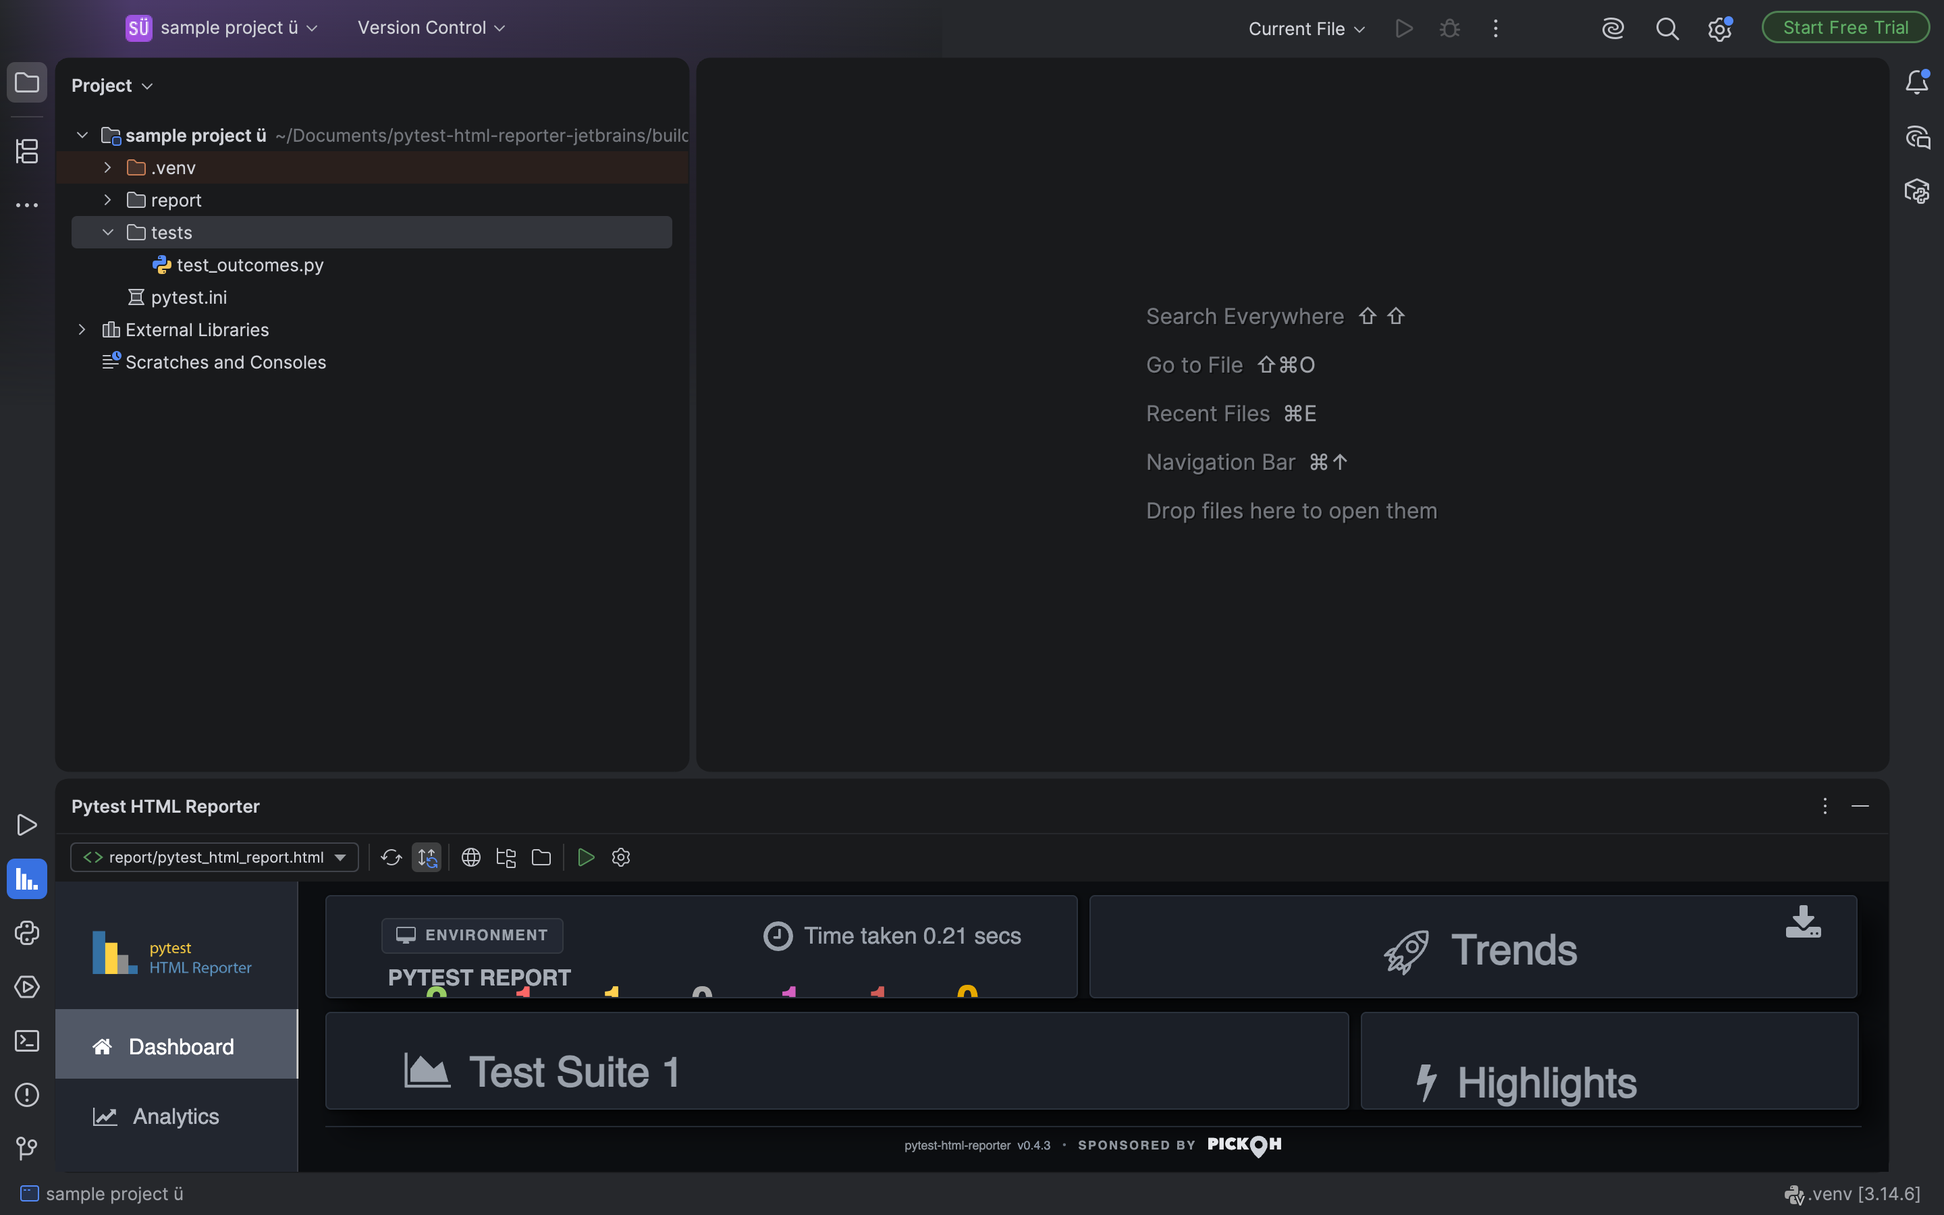
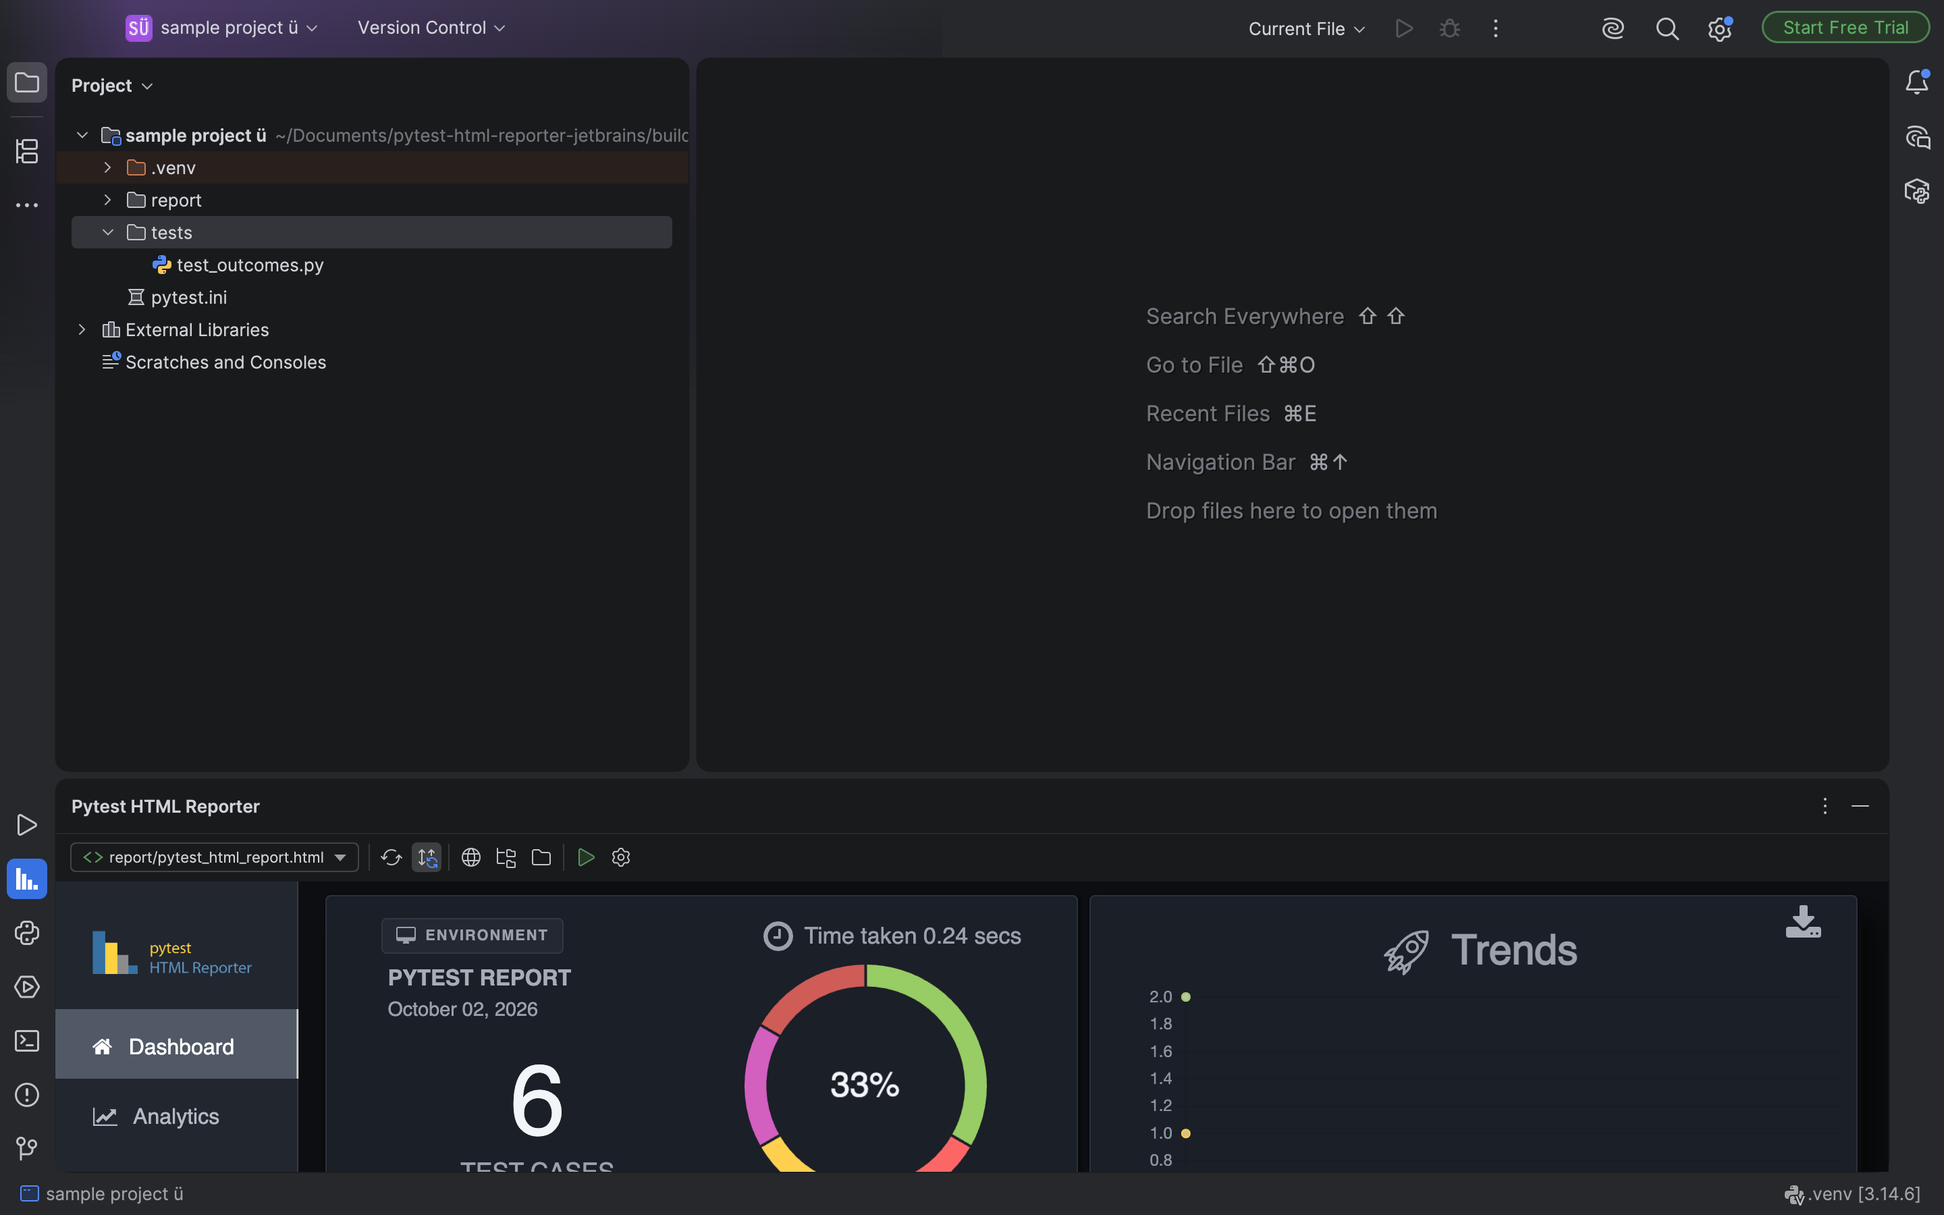
test

Changed region(s): [[0.1562, 0.7778, 0.9688, 0.9644]]

diff --git a/src/test/kotlin/io/github/prashanthsams/pytesthtmlreporter/platform/JcefReportRenderingTest.kt b/src/test/kotlin/io/github/prashanthsams/pytesthtmlreporter/platform/JcefReportRenderingTest.kt
@@ -17,12 +17,16 @@ import java.util.concurrent.atomic.AtomicInteger
 /**
  * Loads a report generated by pytest-html-reporter 0.4.3 into the production [JcefReportBrowser] (off-screen, so it
  * runs headless) and checks what the page itself can see: its scripts ran, relative screenshot files resolve from
- * disk with no server, files outside the report folder are refused, and a reload keeps the current report page.
+ * disk with no server, files outside the report folder are refused, a reload keeps the current report page, and the
+ * dashboard scrolls rather than being squeezed in a short tool window.
  * Returns early when the test runtime has no JCEF.
  */
 class JcefReportRenderingTest : ReporterTestCase() {
 
     private lateinit var directory: Path
+    private val loads = AtomicInteger()
+    private val failures = LinkedBlockingQueue<String>()
+    private val results = LinkedBlockingQueue<String>()
 
     override fun setUp() {
         super.setUp()
@@ -47,30 +51,12 @@ class JcefReportRenderingTest : ReporterTestCase() {
         // A real PNG just outside the report folder: the viewer must not load it.
         Files.copy(report.resolveSibling("pytest_screenshots").resolve(screenshot), directory.resolve("outside.png"))
 
-        val loads = AtomicInteger()
-        val failures = LinkedBlockingQueue<String>()
-        val view = JcefReportBrowser(project, testRootDisposable, object : JcefReportBrowser.Listener {
-            override fun loadStarted() = Unit
-            override fun loadFinished() {
-                loads.incrementAndGet()
-            }
-            override fun loadFailed(errorText: String, url: String) {
-                failures += "$errorText $url"
-            }
-        }, headless = true)
-        val results = LinkedBlockingQueue<String>()
-        view.jbCefBrowser.jbCefClient.addDisplayHandler(object : CefDisplayHandlerAdapter() {
-            override fun onConsoleMessage(browser: CefBrowser?, level: CefSettings.LogSeverity?, message: String?, source: String?, line: Int): Boolean {
-                if (message != null && message.startsWith(MARKER)) results += message.removePrefix(MARKER)
-                return false
-            }
-        }, view.jbCefBrowser.cefBrowser)
-
+        val view = createView()
         view.load(report)
         PlatformTestUtil.waitWithEventsDispatching({ "report did not load: $failures" }, { loads.get() >= 1 }, TIMEOUT_SECONDS)
         assertTrue(failures.toString(), failures.isEmpty())
 
-        val page = evaluate(view, results, inspection(screenshot))
+        val page = evaluate(view, inspection(screenshot))
         println("Rendered report as seen by the page: $page")
         assertEquals("Pytest HTML Reporter", page.stringValue("title"))
         assertEquals("the screenshot beside the report loads from disk", 4L, page["inside"])
@@ -85,12 +71,62 @@ class JcefReportRenderingTest : ReporterTestCase() {
         val before = loads.get()
         view.reload()
         PlatformTestUtil.waitWithEventsDispatching("reload did not finish", { loads.get() > before }, TIMEOUT_SECONDS)
-        val reloaded = evaluate(view, results, "console.log('$MARKER' + JSON.stringify({hash: window.location.hash}));")
+        val reloaded = evaluate(view, "console.log('$MARKER' + JSON.stringify({hash: window.location.hash}));")
         println("After reload: $reloaded")
         assertTrue(reloaded.stringValue("hash"), reloaded.stringValue("hash")!!.startsWith("#test-metrics"))
     }
 
-    private fun evaluate(view: JcefReportBrowser, results: LinkedBlockingQueue<String>, script: String): Map<*, *> {
+    fun testDashboardScrollsInAShortToolWindowInsteadOfBeingSqueezed() {
+        if (!JcefSupport.isSupported()) {
+            LOG.warn("JCEF is not available in this test runtime; skipping")
+            return
+        }
+        val report = TestData.copyReport("0.4.3", directory.resolve("out"))
+        val view = createView()
+        // The size of a tool window docked at the bottom: as wide as the IDE, a couple of hundred pixels high.
+        val cefBrowser = view.jbCefBrowser.cefBrowser
+        cefBrowser.uiComponent.setSize(1320, 230)
+        cefBrowser.wasResized(1320, 230)
+        view.load(report)
+        PlatformTestUtil.waitWithEventsDispatching({ "report did not load: $failures" }, { loads.get() >= 1 }, TIMEOUT_SECONDS)
+
+        val dashboard = evaluate(view, DASHBOARD_INSPECTION)
+        println("Dashboard in a short viewer: $dashboard")
+        assertTrue("the report is laid out for a wide, short window: $dashboard",
+            dashboard.longValue("width") >= 1200 && dashboard.longValue("height") <= 300)
+        assertTrue("the dashboard is taller than the window, so it scrolls: $dashboard",
+            dashboard.longValue("dashboard") > dashboard.longValue("height"))
+        assertTrue("the test count does not run into the outcome counters: $dashboard", dashboard.longValue("countGap") >= 0)
+        assertTrue("the highlight caption is inside its card: $dashboard", dashboard.longValue("captionRoom") >= 0)
+
+        // With a previous build the report adds a "since last build" highlight, and the dashboard is given more room.
+        val withPreviousBuild = evaluate(view, "document.querySelector('.delta-highlight').classList.remove('is-empty');\n$DASHBOARD_INSPECTION")
+        println("Dashboard in a short viewer, with a previous build: $withPreviousBuild")
+        assertTrue("the dashboard grows for the second highlight: $withPreviousBuild",
+            withPreviousBuild.longValue("dashboard") > dashboard.longValue("dashboard"))
+        assertTrue("the second highlight's caption is inside its card: $withPreviousBuild", withPreviousBuild.longValue("captionRoom") >= 0)
+    }
+
+    private fun createView(): JcefReportBrowser {
+        val view = JcefReportBrowser(project, testRootDisposable, object : JcefReportBrowser.Listener {
+            override fun loadStarted() = Unit
+            override fun loadFinished() {
+                loads.incrementAndGet()
+            }
+            override fun loadFailed(errorText: String, url: String) {
+                failures += "$errorText $url"
+            }
+        }, headless = true)
+        view.jbCefBrowser.jbCefClient.addDisplayHandler(object : CefDisplayHandlerAdapter() {
+            override fun onConsoleMessage(browser: CefBrowser?, level: CefSettings.LogSeverity?, message: String?, source: String?, line: Int): Boolean {
+                if (message != null && message.startsWith(MARKER)) results += message.removePrefix(MARKER)
+                return false
+            }
+        }, view.jbCefBrowser.cefBrowser)
+        return view
+    }
+
+    private fun evaluate(view: JcefReportBrowser, script: String): Map<*, *> {
         results.clear()
         view.jbCefBrowser.cefBrowser.executeJavaScript(script, "", 0)
         PlatformTestUtil.waitWithEventsDispatching("the page did not answer", { results.isNotEmpty() }, TIMEOUT_SECONDS)
@@ -98,6 +134,8 @@ class JcefReportRenderingTest : ReporterTestCase() {
     }
 
     private fun Map<*, *>.stringValue(key: String) = this[key] as? String
+
+    private fun Map<*, *>.longValue(key: String) = this[key] as Long
 
     private fun inspection(screenshot: String) = """
         (function () {
@@ -124,5 +162,32 @@ class JcefReportRenderingTest : ReporterTestCase() {
         private val LOG = logger<JcefReportRenderingTest>()
         private const val MARKER = "PHR-TEST:"
         private const val TIMEOUT_SECONDS = 60
+
+        /**
+         * Measures the dashboard once the report has opened it and it has outgrown the window, or after 10 s if that
+         * never happens. Until the report opens a tab, all of them are on the page.
+         */
+        private val DASHBOARD_INSPECTION = """
+            (function () {
+              var started = Date.now();
+              var box = function (selector) { return document.querySelector(selector).getBoundingClientRect(); };
+              (function inspect() {
+                var settled = document.body.getAttribute('data-tab') === 'dashboard' && box('.dashboard-viewport').height > window.innerHeight;
+                if (!settled && Date.now() - started < 10000) { setTimeout(inspect, 50); return; }
+                var cards = document.querySelectorAll('#dashboard .row.rowcard > .card');
+                var highlights = cards[cards.length - 1];
+                var captions = Array.prototype.filter.call(highlights.querySelectorAll('.suite-highlights-header'),
+                  function (caption) { return caption.offsetParent !== null; });
+                var caption = captions[captions.length - 1].getBoundingClientRect();
+                console.log('$MARKER' + JSON.stringify({
+                  width: window.innerWidth,
+                  height: window.innerHeight,
+                  dashboard: Math.round(box('.dashboard-viewport').height),
+                  countGap: Math.round(box('#dashboard .card__footer').top - box('#dashboard .total_count__label').bottom),
+                  captionRoom: Math.round(highlights.getBoundingClientRect().bottom - caption.bottom)
+                }));
+              })();
+            })();
+        """.trimIndent()
     }
 }

diff --git a/src/main/kotlin/io/github/prashanthsams/pytesthtmlreporter/viewer/JcefReportBrowser.kt b/src/main/kotlin/io/github/prashanthsams/pytesthtmlreporter/viewer/JcefReportBrowser.kt
@@ -46,8 +46,9 @@ import javax.swing.JComponent
  * The embedded Chromium view of one report at a time.
  *
  * The report's own interface is used unchanged: its scripts, charts, tables, themes and `#hash` routes all run as
- * written. What this class adds is containment - see [ReportNavigationPolicy] - and two conveniences: following the
- * IDE theme until the report's own theme switch is used, and saving the report's CSV/Excel/PDF exports.
+ * written. What this class adds is containment - see [ReportNavigationPolicy] - and three conveniences: following the
+ * IDE theme until the report's own theme switch is used, letting the dashboard scroll in a short tool window instead
+ * of squeezing it, and saving the report's CSV/Excel/PDF exports.
  * No JavaScript bridge is installed; nothing in the page can call into the IDE.
  */
 internal class JcefReportBrowser(
@@ -66,7 +67,7 @@ internal class JcefReportBrowser(
 
     private val browser: JBCefBrowser = JBCefBrowser.createBuilder()
         .setEnableOpenDevToolsMenuItem(false)
-        .apply { if (headless) setOffScreenRendering(true).setCreateImmediately(true) }
+        .apply { if (headless) setOffScreenRendering(true) }
         .build()
 
     /** For tests: the underlying browser, to observe what the page did. */
@@ -98,6 +99,8 @@ internal class JcefReportBrowser(
         client.addLoadHandler(LoadHandler(), cefBrowser)
         client.addDisplayHandler(AddressHandler(), cefBrowser)
         client.addDownloadHandler(DownloadHandler(), cefBrowser)
+        // Only now that every handler is added: out-of-process JCEF takes a browser's handlers when it is created.
+        if (headless) browser.createImmediately()
     }
 
     /** Loads [report] from the start. */
@@ -133,6 +136,14 @@ internal class JcefReportBrowser(
             })();
         """.trimIndent()
         browser.cefBrowser.executeJavaScript(script, browser.cefBrowser.url ?: "", 0)
+    }
+
+    /**
+     * Gives the dashboard the height it needs, see [SCROLLING_DASHBOARD_SCRIPT]. Runs on every load: the style goes
+     * with the document.
+     */
+    private fun letDashboardScroll() {
+        browser.cefBrowser.executeJavaScript(SCROLLING_DASHBOARD_SCRIPT, browser.cefBrowser.url ?: "", 0)
     }
 
     private fun createPolicy(report: Path): ReportNavigationPolicy = ReportNavigationPolicy(
@@ -212,7 +223,9 @@ internal class JcefReportBrowser(
         }
 
         override fun onLoadEnd(browser: CefBrowser?, frame: CefFrame?, httpStatusCode: Int) {
-            if (frame?.isMain == true) applyTheme()
+            if (frame?.isMain != true) return
+            applyTheme()
+            letDashboardScroll()
         }
 
         override fun onLoadError(browser: CefBrowser?, frame: CefFrame?, errorCode: CefLoadHandler.ErrorCode?, errorText: String?, failedUrl: String?) {
@@ -282,5 +295,33 @@ internal class JcefReportBrowser(
 
     private companion object {
         private val LOG = logger<JcefReportBrowser>()
+
+        /**
+         * pytest-html-reporter 0.4.3 sizes its desktop dashboard (1200 px wide and up) to the window height so that all
+         * four cards show at once. A tool window is often only a few hundred pixels high, and the cards are then
+         * squeezed until their contents overlap and are cut off. A minimum height lets the dashboard keep its layout
+         * and scroll like the report's other pages instead; taller windows are unaffected. The dashboard needs about
+         * 620 px (660 px at 2560 px wide). A previous build adds the "since last build" highlight, and then it needs
+         * about 740 px at 1320 px wide and 900 px at 2560 px, as the cards' paddings are percentages of the width.
+         * Both minimums leave 20 to 60 px more for other platforms' fonts.
+         *
+         * The report fixes the PDF download icon 50 px from the window's right edge, which works only while the
+         * dashboard cannot scroll: it would stay put and slip under the Highlights card. It is pinned to its Trends
+         * card instead, at the same spot. That card ends 20 px plus 0.25% of the row from the window's edge and has a
+         * 1 px border, so the icon is 29 px less 0.25% of the row from the card's edge, and the card is half the row.
+         * Reports without this layout, such as 0.3.0's, have no `.dashboard-viewport` and are left as they are.
+         */
+        private val SCROLLING_DASHBOARD_SCRIPT = """
+            (function () {
+              if (document.getElementById('pytest-html-reporter-jetbrains-dashboard')) { return; }
+              var style = document.createElement('style');
+              style.id = 'pytest-html-reporter-jetbrains-dashboard';
+              style.textContent = '.dashboard-viewport { min-height: 680px; }'
+                + ' .dashboard-viewport:has(.delta-highlight:not(.is-empty)) { min-height: calc(600px + 13.5vw); }'
+                + ' @media screen and (min-width: 1200px) { .dashboard-viewport #download > i'
+                + ' { position: absolute !important; right: calc(29px - 0.5%) !important; } }';
+              (document.head || document.documentElement).appendChild(style);
+            })();
+        """.trimIndent()
     }
 }

diff --git a/test.md b/test.md
@@ -1,0 +1,64 @@
+You can test it locally in three ways, from quickest to most thorough.
+
+## 1. Try it by hand in a sandbox IDE (best while you're developing)
+
+```bash
+./gradlew runIde
+```
+
+This opens a separate PyCharm Community 2025.1.6.2 with your plugin installed. It has its own config, so your normal IDE isn't affected. It needs a Python project to work on, and you can use the bundled sample tests:
+
+```bash
+cp -R scripts/fixture-project ~/pytest-sample
+python3 -m venv ~/pytest-sample/.venv
+~/pytest-sample/.venv/bin/pip install pytest-html-reporter
+```
+
+1. In the sandbox IDE, choose **File | Open** and pick `~/pytest-sample`.
+2. Set `.venv` as the project interpreter.
+3. Run **Tools | pytest-html-reporter | Run pytest with HTML Report**.
+
+After you change the code, close the sandbox and run `./gradlew runIde` again.
+
+## 2. Install the ZIP in your own PyCharm (closest to what users get)
+
+```bash
+./gradlew buildPlugin
+```
+
+Then go to **Settings | Plugins | ⚙ | Install Plugin from Disk…** and pick `build/distributions/pytest-html-reporter-0.1.0.zip`. No restart is needed. Uninstall it the same way before you install the Marketplace version later.
+
+## 3. Automated checks
+
+```bash
+./gradlew test
+```
+
+That runs only the unit and platform tests. The end-to-end tests quietly return early and still show as passed unless you point them at real interpreters:
+
+```bash
+PYTEST_HTML_REPORTER_PYTHON=~/pytest-sample/.venv/bin/python \
+PYTEST_HTML_REPORTER_PYTHON_WITHOUT_REPORTER=/path/to/python-with-pytest-only \
+./gradlew test
+```
+
+The second interpreter needs pytest but **not** pytest-html-reporter, because it tests the offer to install the reporter.
+
+Other checks:
+- **Scripted sandbox run:** `scripts/smoke-test.sh` drives the whole workflow and saves screenshots plus a `results.json` under `build/smoke/`. `scripts/smoke-test.sh runSmokeTest262` does the same on PyCharm 2026.2.3.
+- **Compatibility:** `./gradlew :verifyPlugin -PverifyIdes=PyCharm:2026.2.3` checks one IDE at a time. Each IDE is a 1–1.5 GB download.
+
+One catch with option 1: `runIde` uses the 2025.1 SDK. If you point a plain `runIde` sandbox at 2026.2 or newer, the embedded report viewer won't render, because those versions need the installer build. The `runSmokeTest262` task is already set up for that.
+
+
+
+
+### cmds
+```bash
+rm -rf ~/Documents/fixture-project/.idea
+rm -rf ~/Documents/pytest-html-reporter-jetbrains/scripts/fixture-project/{.venv,.idea}
+
+
+cd ~/Documents/pytest-html-reporter-jetbrains
+./gradlew :runIde --args="$HOME/Documents/fixture-project"
+```

diff --git a/docs/VERIFICATION.md b/docs/VERIFICATION.md
@@ -162,7 +162,8 @@ Platform messages seen in the sandbox logs that are not plugin errors:
 
 Screenshots in `docs/screenshots/` come from these runs. They are painted from the IDE's own windows, with the
 browser area taken from Chromium's own frame; CEF's frame matched the component exactly at 2× (e.g. 2716×1438 for
-1358×719).
+1358×719). The exception is `after-run.png`: it was captured again on 2026-10-02 in a passing `runSmokeTest262` run,
+after the fix for the dashboard being squeezed in a short tool window (see the changelog).
 
 ### Problems found by the smoke tests and fixed
 
@@ -173,6 +174,7 @@ browser area taken from Chromium's own frame; CEF's frame matched the component 
 | When Chromium failed to start, the viewer showed a spinner forever | 30 s load watchdog → error page with **Retry** and **Open in External Browser** |
 | **Stop** (notification action) had no effect when SIGINT is ignored, as for an IDE started in the background | Interrupt first, kill after 10 s |
 | `''` shown literally in messages without parameters | Fixed; `MessageBundleTest` checks every message |
+| In the default, short tool window the report's dashboard was squeezed to the window height until its cards overlapped and were cut off (visible in the first `after-run.png`) | The dashboard gets a minimum height and scrolls; checked by `JcefReportRenderingTest` at 1320×230 |
 
 ### JCEF on 2026.2+ from Gradle archives
 

diff --git a/README.md b/README.md
@@ -97,7 +97,9 @@ When nothing can be shown, the tool window says why - no report found yet, the s
 project is untrusted, or the embedded browser is unavailable - and offers the next step.
 
 The report follows the IDE's light or dark theme until you use the report's own theme switch, which it then
-remembers. Exports from the report's tables (CSV, Excel, PDF) are offered for saving through the IDE's save dialog.
+remembers. In a tool window too short for the report's dashboard, the dashboard keeps its layout and scrolls, like
+the report's other pages. Exports from the report's tables (CSV, Excel, PDF) are offered for saving through the IDE's
+save dialog.
 
 ### Run pytest with HTML Report
 

diff --git a/CHANGELOG.md b/CHANGELOG.md
@@ -7,6 +7,11 @@ plugin's change notes on JetBrains Marketplace.
 
 ## [Unreleased]
 
+### Fixed
+
+- The report's dashboard is no longer squeezed in a short tool window, where its cards overlapped and were cut off:
+  it keeps its layout and scrolls, like the report's other pages.
+
 ## [0.4.3] - 2026-10-01
 
 ### Added
